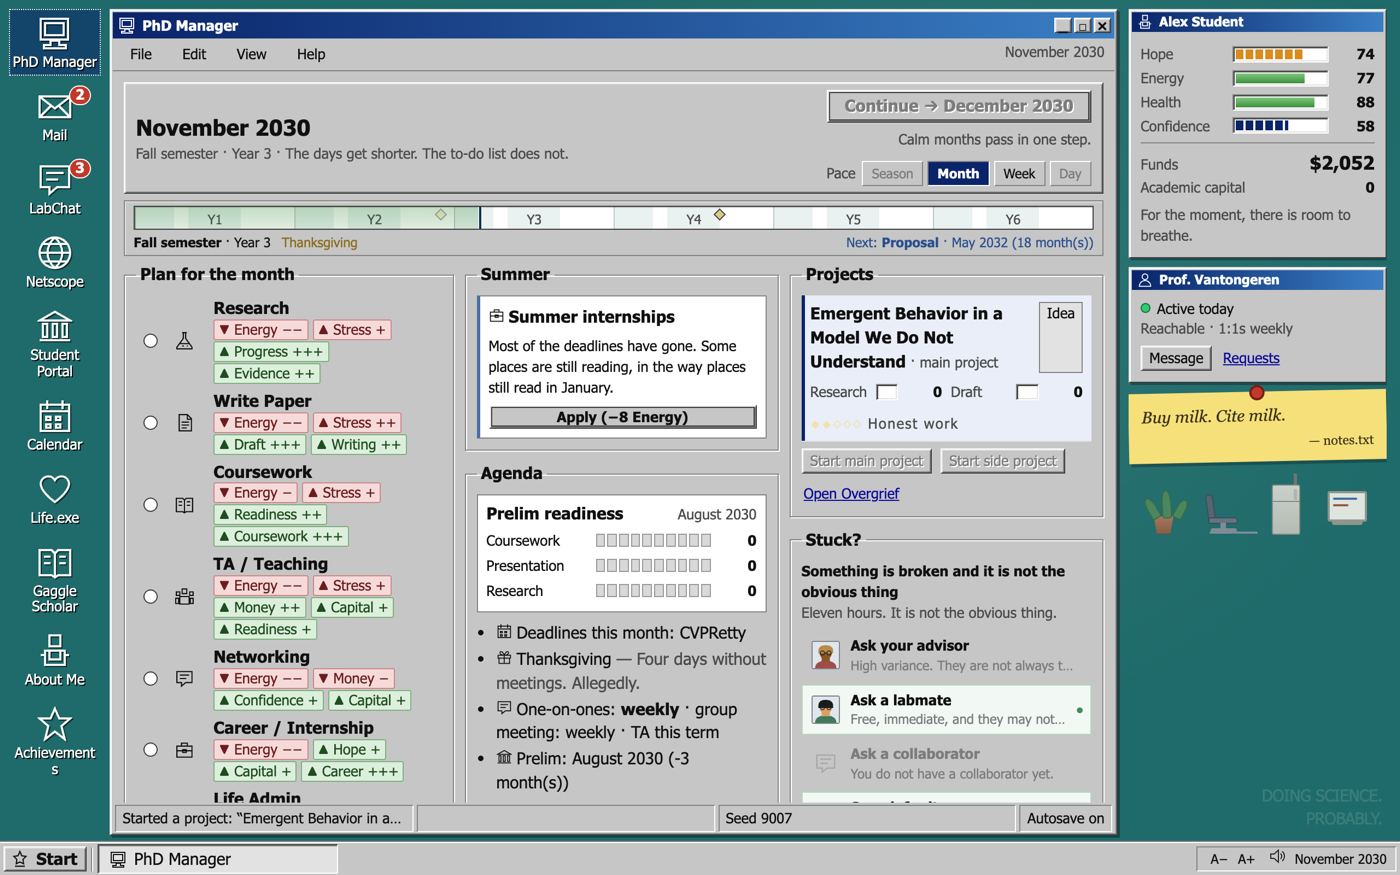
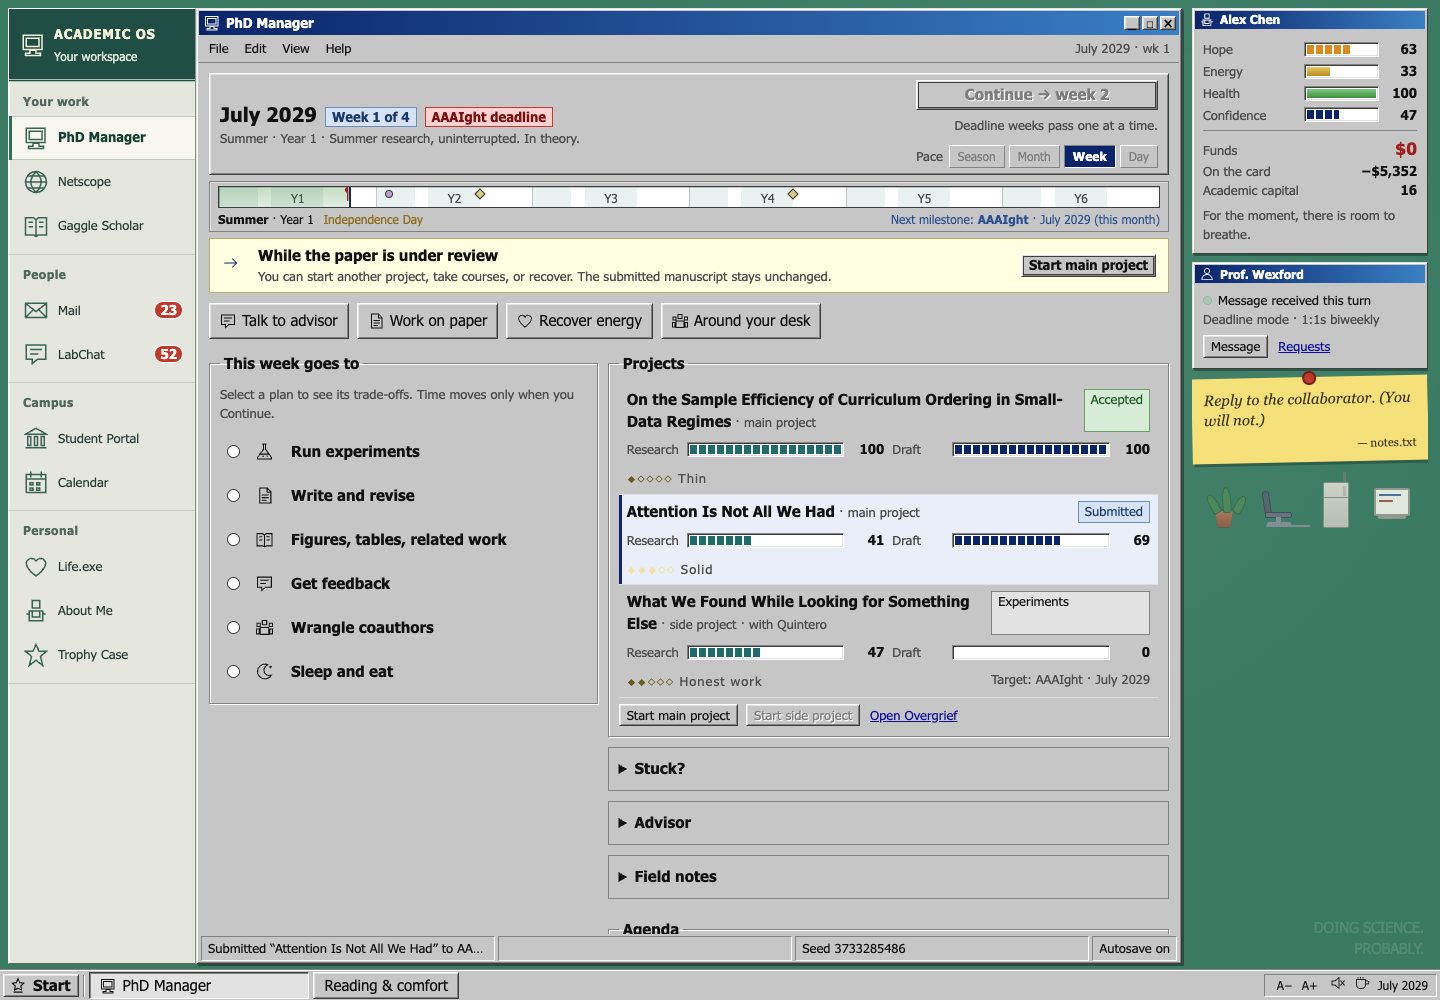
docs: refresh README screenshots for v1.12.0

diff --git a/README.md b/README.md
@@ -6,7 +6,9 @@
 
 **[▶ Play it in your browser](https://rexzchen.github.io/PhD-Simulator/)** · no install · no account · nothing leaves your machine
 
-<img src="docs/screens/desktop.png" width="820" alt="The PhD Manager desktop: a monthly plan, an advisor card, a Stuck? panel, and a plant on the desk.">
+<img src="docs/screens/desktop.png" width="820" alt="Academic OS v1.12: a connected workspace sidebar, weekly deadline plans, research projects, advisor status, and a plant on the desk.">
+
+*Screenshots from the browser release, v1.12.0.*
 
 </div>
 
@@ -50,11 +52,32 @@ Then it keeps going, because a PhD does not end at graduation and neither does y
 
 ### Room 214 is an hour, not a dice roll
 
-<img src="docs/screens/room214.png" width="760" alt="The preliminary examination: a slide deck with a clock, a committee, and a composure meter.">
+<img src="docs/screens/room214.png" width="760" alt="The preliminary examination in self-paced mode: a slide deck, composure and talk-budget meters, and choices to move on or explain a slide.">
 
 *Forty minutes of talking while four people decide what to ask you. Then fifteen minutes of being asked it. Then five minutes in a corridor with one chair while they decide, out loud, without you.*
 
 </div>
+
+---
+
+<details>
+<summary><b>Inside the workspace — LabChat, ChatPHD, and Gaggle Scholar</b></summary>
+
+<br>
+
+**LabChat** — Lab channels, direct messages, and the careful wording of a message to your advisor.
+
+<img src="docs/screens/labchat.png" width="820" alt="LabChat with lab channels, advisor and labmate conversations, and an expanded menu of check-in and meeting messages with energy costs.">
+
+**ChatPHD** — Research tools beside a conversation that is occasionally helpful.
+
+<img src="docs/screens/chatphd.png" width="820" alt="ChatPHD showing the active research project, visible research tools, and a conversation about how to talk to an advisor.">
+
+**Gaggle Scholar** — Your publications, citation counts, and an invitation to compare yourself with everyone else.
+
+<img src="docs/screens/scholar.png" width="820" alt="Gaggle Scholar with a researcher profile, indexed publications, citation metrics, and a link to people you know.">
+
+</details>
 
 ---
 
